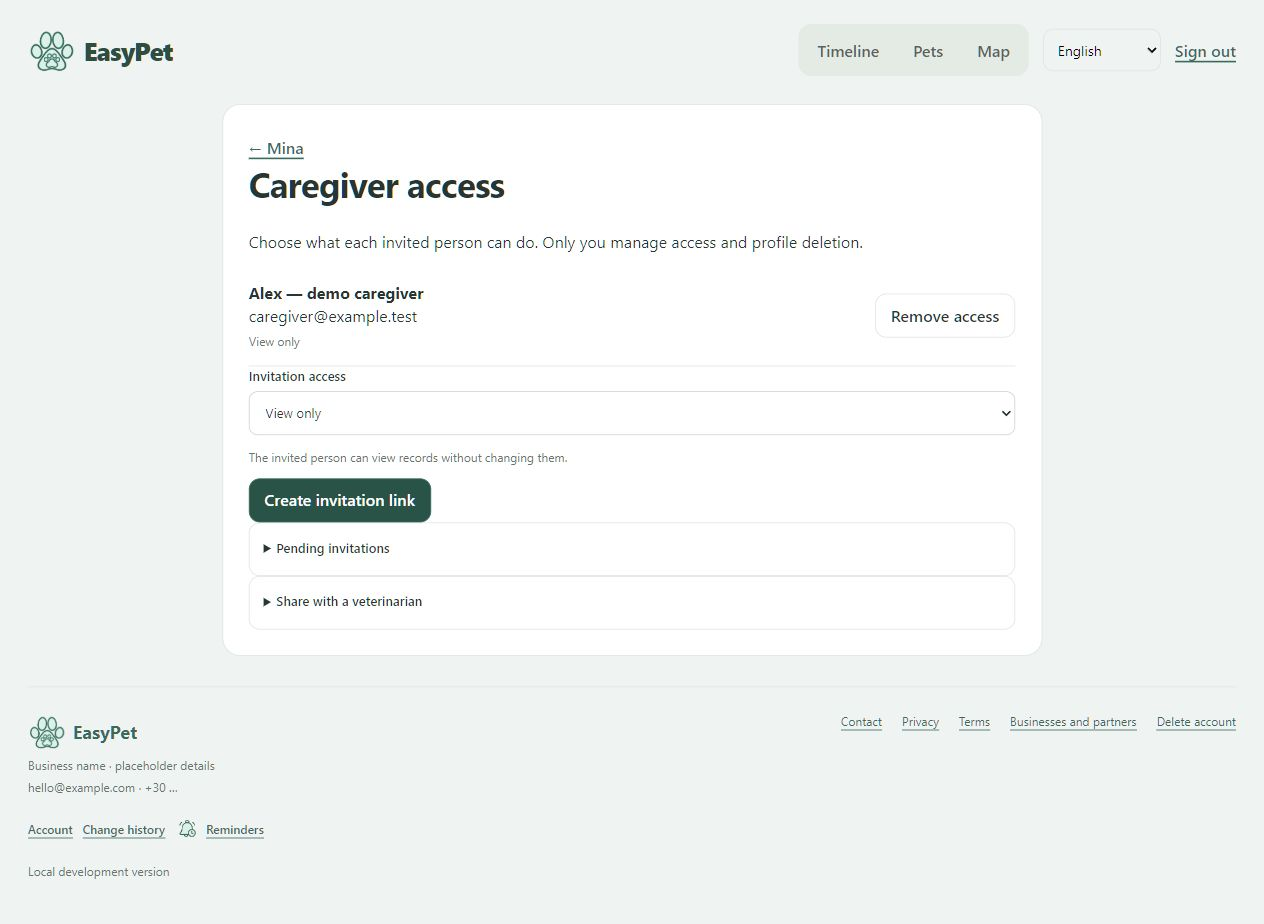
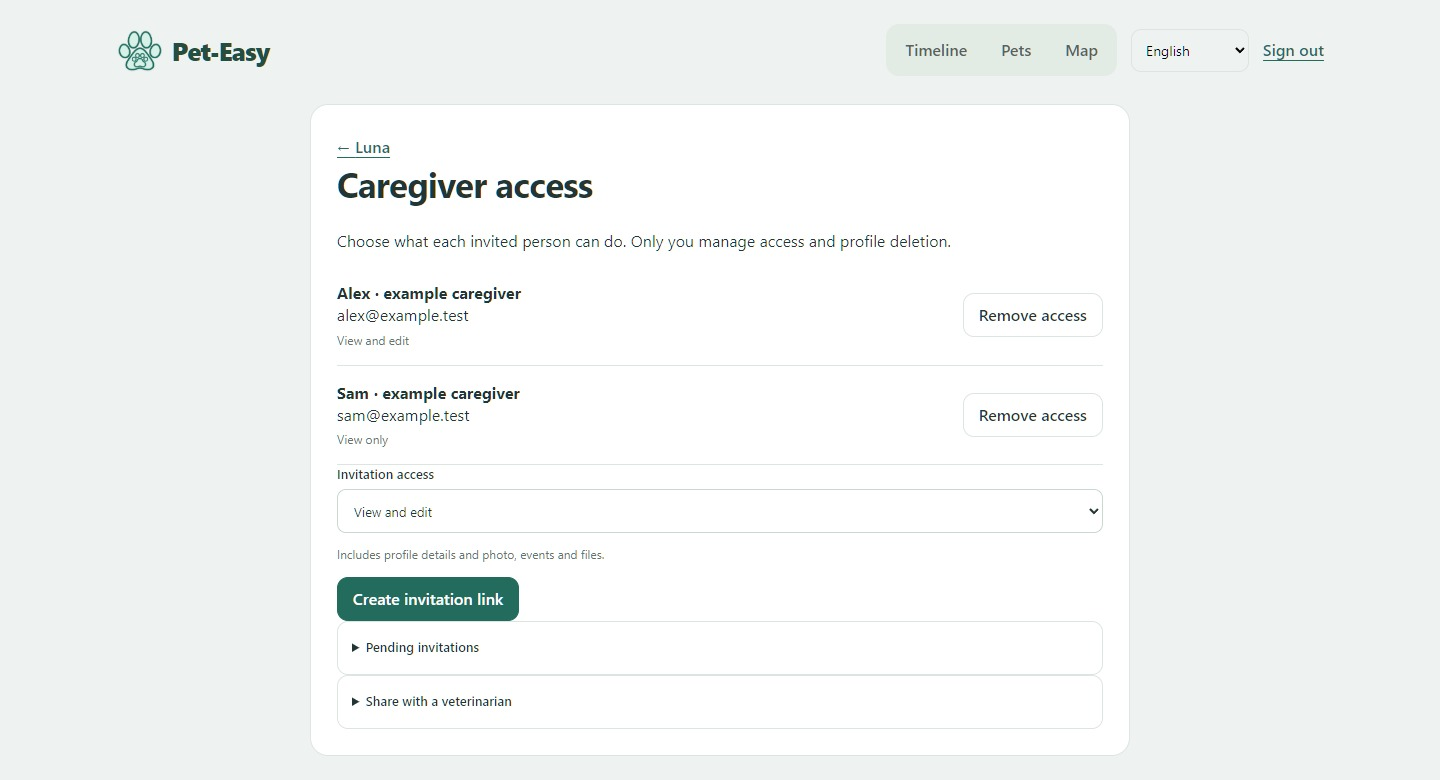
docs: refresh Pet-Easy product previews and agent workflow

diff --git a/README.md b/README.md
@@ -1,65 +1,59 @@
 # Pet-Easy
 
-**Shared pet care, with a clear record of what happened and what comes next.**
+**One timeline. Every pet. Shared care that stays in sync.**
 
-A Greek-first web and Android application for pet profiles, care events, reminders and optional caregiver collaboration. Built by Tilemachos Tragakis with Codex assistance.
+Pet-Easy brings pet profiles, care events, reminders and caregiver collaboration into a connected web and native Android experience. Greek by default, with an English switch.
 
-**Status:** working local development application; preparing a small invited owner/shared-care trial. Not publicly launched or claimed production-ready. This repository is a curated portfolio case study. The application source remains private.
+A product and engineering case study by **Tilemachos Tragakis**, developed with Codex and scoped AI-agent workflows.
 
-![Pet-Easy timeline with fictional demonstration records](assets/timeline.jpg)
+**React · TypeScript · Django REST Framework · PostgreSQL · Kotlin · Jetpack Compose · Docker**
 
-[One-minute walkthrough](WALKTHROUGH.md) · [Architecture and decisions](ARCHITECTURE.md) · [Verification boundaries](VERIFICATION.md) · [Public Python sample](https://github.com/RagDel/completion-recurrence)
+![Pet-Easy shared timeline with fictional pets and care events](assets/timeline.jpg)
 
-## The problem
+[Visual walkthrough](WALKTHROUGH.md) · [Architecture](ARCHITECTURE.md) · [Agents and skills](AGENT_WORKFLOW.md) · [Verification](VERIFICATION.md) · [Runnable Python sample](https://github.com/RagDel/completion-recurrence)
 
-When several people care for a pet, remembering a date is only part of the problem. They also need to know whether something was completed, who changed it, which record is current and what another caregiver is allowed to do.
+**October 2026:** web and Android features are implemented and undergoing iterative verification. Managed cloud deployment and public release are upcoming milestones. This public repository presents the product and engineering; application source remains private.
 
-Pet-Easy organizes that work around pet profiles and a shared timeline. The core can be used by one owner; invitations are optional.
+## The product
 
-## Implemented in the local application
+Sharing pet care means coordinating more than dates. An owner needs to know what happened, what comes next, who changed a record and what each caregiver can do. Pet-Easy connects these decisions in one place, while remaining useful for someone caring for a pet alone.
 
-- A pan/zoom timeline with pet colours, species-aware event categories and filters.
-- Pet profiles, private event documents and provider contact reuse.
-- View-only or editing access, owner-managed invitations and attributed changes.
-- Repeats anchored to actual completion, configurable reminders and Android snooze/retry behaviour.
-- Shared Django API for a React website and native Kotlin Android app.
-- Account export, session revocation and a cancellable account-deletion process.
-
-## Engineering focus
-
-| Problem | Design choice |
+| Capability | What the experience offers |
 |---|---|
-| Two caregivers edit the same record | Server authorization and version checks; preserve edits when resolving conflicts |
-| A completion request is retried | Idempotent handling so one completion does not create duplicate successors |
-| A task is completed later than planned | Calculate its next occurrence from actual completion |
-| Access changes while a screen is open | Revalidate and clear stale views; enforce access in the API |
-| A phone or PC restarts | Persist encrypted device sessions and validate them with the server |
-| A backup predates an account deletion | Reapply independent deletion receipts during restoration |
+| **A shared timeline** | One horizontal date axis for every selected pet, circular photo/category markers, pan and zoom, a Today shortcut, and pet/type filters. Crowded events group by overlap and expand in place. |
+| **Profiles with personality** | Cropped photos, optional birthdays, age and kg/lb weight, plus 24 actual gradient presets and custom colors shared across clients. |
+| **Flexible care records** | Vaccines, antiparasitic care, treatment, grooming, food and species-aware supplies. Optional product details, reusable choices, documents and provider contacts stay with the event. |
+| **Caregiver collaboration** | Owner-managed invitations, View only or View & edit access, attributed changes and the ability to leave a shared pet. |
+| **Completion-based planning** | Repeat intervals count from actual completion. Reminder preferences, adjustable times and native Android snooze/dismissal behavior support follow-up. |
+| **Nearby services** | Nearest-first provider results, grouped map pins, city/area search, relevant business categories and external Google Maps links. Initial coverage uses source-attributed open data for Greece. |
+| **Control over records** | Private attachments, data export, session management and distinct pet-profile/account deletion flows with recovery or cancellation periods. |
 
-## Stack
+A separate **professional workspace is in development**, covering clients and pets, practice details and reminder planning. Partner bookings, payments and external professional messaging remain future work.
 
-**Backend:** Python, Django, Django REST Framework, PostgreSQL.
+## Engineering behind the interface
 
-**Website:** React, TypeScript, Vite.
+| Challenge | Implemented approach |
+|---|---|
+| Many pets and overlapping dates on one screen | Zoom-aware collision groups preserve full event counts and open a bounded detail grid. |
+| The same data on web and Android | A shared API and behavior contracts, with native interfaces and shared visual presets. |
+| Two caregivers change one event | Version-aware updates expose conflicts instead of silently overwriting changes. |
+| A completion request is retried | Retry-safe completion avoids generating duplicate successor events. |
+| A task is completed late | Calendar recurrence starts from completion, with explicit month-end and leap-year behavior. |
+| Access changes while details are open | Clients clear stale views and actions as access changes. |
+| A familiar visual feature evolves | Existing solid pet colors remain valid alongside the new two-stop gradients. |
 
-**Android:** Kotlin, Jetpack Compose.
+The [architecture case study](ARCHITECTURE.md) explains these decisions. The [standalone recurrence sample](https://github.com/RagDel/completion-recurrence) provides inspectable Python code, a CLI and tests for one scheduling problem from the project.
 
-**Local operations:** Docker Compose; separate production configuration, not yet deployed.
+## How I build with agents
 
-## Ownership and development
+I own product direction, choose the stack and user-facing behavior, and review the experience. I use Codex agents for focused research, implementation, debugging, verification and documentation, with explicit scope and acceptance criteria.
 
-I define the product requirements and scope, choose the user-facing behaviour and review/test the experience. Codex assists with implementation, debugging, tests, research and documentation. This is an AI-assisted project; the case study does not imply that every line was written manually.
+Ten project-specific skills separate product, UX, UI, architecture, backend, browser, Android, database, containers and integration verification. Shared contracts and recorded decisions connect their work; independent reviews check results before integration. [See the workflow and a concrete feature example.](AGENT_WORKFLOW.md)
 
-## About the screenshots
+## Evidence and next steps
 
-The public product name is **Pet-Easy**. These captures retain the earlier **EasyPet** label from the existing local build; the application branding update is pending. Repository/package names remain unchanged.
+Recorded checks include PostgreSQL integration tests, responsive Greek/English browser journeys, Android JVM tests and lint, and selected browser-to-Android persistence checks. The visual walkthrough uses the current web interface and fictional demonstration data. Narrow-screen web captures are labelled as web, and are separate from native Android evidence.
 
-The images show the actual web build connected to an isolated, read-only fixture server. All account, pet, event and caregiver records in these captures are fictional. They illustrate the interface; they are not evidence of live notifications, production availability or an Android runtime. No private database records are used.
+Next milestones are **managed cloud deployment**, release distribution, monitoring, broader physical-device and accessibility testing, and expanded professional workflows. Notification integration and development delivery checks do not establish production delivery reliability. [Verification scope and remaining work](VERIFICATION.md).
 
-The walkthrough is available directly in this repository without creating an account or running the private app. For runnable public code, see [completion-recurrence](https://github.com/RagDel/completion-recurrence).
-
-## Scope boundaries
-
-iOS is deferred. Professional booking/payment services, billing, public hosting and diagnostic AI are not part of the released offering. Account deletion and pet-profile deletion have different retention semantics; see [architecture](ARCHITECTURE.md). The product name is a working brand, not a claim of trademark registration.
-
-Published for portfolio review. This repository does not grant a license to the private application or its branding. No open-source reuse license has been selected for these case-study materials.
+Published for portfolio review. No open-source reuse license has been selected for the case-study materials, branding or private application.

diff --git a/ARCHITECTURE.md b/ARCHITECTURE.md
@@ -1,40 +1,68 @@
-# Architecture and tradeoffs
+# Architecture and engineering decisions
+
+Pet-Easy combines a React website and a native Kotlin Android app around shared pet-care records. The engineering challenge is keeping dates, permissions, edits and reminders consistent while each client offers an experience suited to its platform.
+
+This diagram shows logical responsibilities in the implementation. Managed cloud deployment is an upcoming milestone; the diagram does not describe a live hosted service.
 
 ```mermaid
 flowchart TB
     W[React / TypeScript website] --> A[Django REST API]
-    K[Kotlin / Compose Android] --> A
+    K[Kotlin / Jetpack Compose Android] --> A
+    G[Shared gradient palette] --> W
+    G --> K
     A --> P[(PostgreSQL)]
-    A --> F[Private document storage]
-    P --> R[Reminder worker]
-    R --> M[SMTP email]
-    R --> N[Firebase Cloud Messaging]
-    O[OSM / Overture source data] --> I[Provider import and attribution]
+    A --> F[Profile images and event documents]
+    P --> R[Reminder scheduling and interactions]
+    R --> E[Email integration]
+    R --> N[Android push integration]
+    O[OSM / Overture records] --> I[Import and source attribution]
     I --> P
+    Z[GeoNames place index] --> A
 ```
 
-## One authority for shared records
+## A timeline built around actual dates
 
-Both clients use the same API. Permission checks belong on the server, not just in disabled buttons. Owners manage sharing and deletion; invited caregivers may view or edit according to the access granted. Version checks make concurrent edits explicit rather than silently overwriting them.
+All selected pets share one horizontal axis. Events keep their actual date anchors as users pan, zoom and filter. At each scale, the clients identify connected groups of overlapping markers: a single marker sits above the axis, two alternate above and below, and three or more become a counted group. A group can contain several pets and nearby dates.
 
-## Calendar meaning before scheduling machinery
+Expanding a group reveals a bounded grid with each pet, category and date, followed by details on the same page. Long collision chains keep a reachable group control even when their centre moves outside the visible window. Birthdays participate in grouping without becoming editable care events.
 
-Repeat intervals count from actual completion. Medical repeats start disabled; the owner supplies an interval from veterinary instructions. The public [date-only sample](https://github.com/RagDel/completion-recurrence) demonstrates calendar arithmetic independently. The application also needs transactional completion, retry protection and eligibility checks.
+This behavior makes dense histories useful on small screens while preserving individual records. Saving an event focuses it in the timeline; Today recentres the date without changing the user's scale or filters.
 
-Reminder data persists on the server. Android push and email are independent channels. Snooze and dismissal retries are additional Android notification behaviour, not a promise that an operating system will always deliver at an exact instant.
+## One visual contract, two client implementations
 
-## Explicit privacy boundaries
+Both clients consume the same 24-gradient preset collection. Pet records store the chosen color values, allowing custom adjustments without depending on a particular preset version. A second color extends the existing solid-color model; older records keep their appearance and older clients can use the first color.
 
-Documents require authorized access. Account export and session revocation provide user control. Whole-account deletion has a seven-day cancellation window followed by erasure, with pseudonymous attribution where another owner's history must remain. Restoring an older backup must reapply independent deletion receipts before access reopens.
+The shared contract defines behavior and data. React and Compose implement their own layouts, navigation and platform interactions. Greek/English presentation, permission states, date semantics and the saved palette are checked across both clients.
 
-Pet-profile deletion is different: it is recoverable for seven days and subsequently hidden while retained as deleted. That distinction must remain visible in product language and retention decisions.
+## Shared care under concurrent changes
 
-## Practical deployment choices
+Owners control invitations and choose viewing or editing access. Caregivers can leave a shared pet without removing the owner's records. The API applies the same rights to profile changes, events and attached documents, and clients clear stale views after access changes.
 
-Docker Compose makes local services repeatable and keeps the application portable. A separately prepared production configuration is not evidence of a live deployment. The current application depends on its server; full offline editing is not implemented.
+Writes carry a record version so conflicting changes are surfaced instead of silently overwriting newer work. Retry identities allow an interrupted create or attachment upload to be repeated without creating another copy. Completing an event creates its successor once, including when requests arrive concurrently. Attributed history connects changes to the care record.
 
-Provider discovery uses source-labelled open data and external map links. Imported records are not proof that a business is currently open, and external ratings/booking are not implied by a map pin.
+## Calendar rules that match the product
 
-## What I would revisit with evidence
+Repeats count from actual completion. A monthly interval follows calendar months, including month-end clamping, rather than assuming every month has the same number of days. Calendar reminders retain their local clock through daylight-saving changes; hourly offsets represent elapsed time. Medical repeats start unselected and use the interval chosen by the owner.
 
-Hosted operational readiness, physical-device accessibility, realistic load, backup recovery in the chosen hosting environment and actual provider delivery need their own acceptance checks. A small pilot is intended to inform later scaling and product scope.
+Android snoozes and dismissal follow-ups form a separate reminder interaction flow. The implementation preserves accepted snoozes when callbacks arrive late, handles repeated requests, and stops queued follow-ups when a record is completed or becomes ineligible. Email and Android preferences remain independent.
+
+The public [completion-recurrence Python sample](https://github.com/RagDel/completion-recurrence) makes a focused date-only part of this work runnable. It does not reproduce the complete application's scheduling or notification system.
+
+## Geospatial discovery with traceable sources
+
+Provider search sorts the matching records by distance before pagination. Map movement and selected place results refresh the search; event forms narrow results to relevant services and can reuse the last saved provider for that pet and service.
+
+The Greece directory contains 3,124 source-attributed OpenStreetMap/Overture records. A separate GeoNames index supports Greek/Latin city and area names. Source records retain their identity: nearby entries are not silently treated as one verified business. Map clusters count the results on the current page, and reviews open through external Google Maps links.
+
+## User-facing data controls
+
+Profiles and care events support permission-aware documents and attributed history. Account controls include ZIP export, session management and account deletion with a seven-day cancellation window. Pet-profile deletion has its own recovery flow and is distinguished from account erasure in the product.
+
+## Next engineering milestones
+
+- Managed cloud deployment, production monitoring and hosted acceptance across web and Android.
+- Broader physical-device, accessibility, interrupted-journey and notification power-management testing.
+- Release distribution and performance evaluation against realistic usage.
+- Further professional-care workflows; partner booking, commercial billing and iOS remain future scope.
+
+The [verification summary](VERIFICATION.md) separates implemented behavior, recorded checks and remaining acceptance work. The [agent workflow](AGENT_WORKFLOW.md) explains how scoped skills and review support the development process.

diff --git a/VERIFICATION.md b/VERIFICATION.md
@@ -1,15 +1,54 @@
-# What has and has not been verified
+# Verification and evidence
 
-Snapshot: 1 October 2026. This is a public summary of project evidence, not a certification or a live service-level claim.
+**Evidence snapshot: 1 October 2026.** This page summarizes recorded application checks. The portfolio refresh did not rerun the full private application suite, and the counts below are separate checkpoints rather than one combined release result.
 
-| Area | Evidence available | Boundary |
+## Recorded checkpoints
+
+| Area | Evidence recorded | What it establishes |
 |---|---|---|
-| Backend and persistence | Local API/database tests, authorization and retry/conflict scenarios | No public hosted-environment acceptance |
-| Browser | Local journeys and responsive/layout checks | Not a complete accessibility audit |
-| Android | Builds, JVM/lint checks and selected Pixel 10 emulator/S24 journeys | Remaining physical gestures, accessibility and power-saving cases |
-| Reminders | Development FCM receipt and user-confirmed email/device delivery | Not a production delivery guarantee |
-| Recovery | Local backup/restore and deletion-receipt rehearsal | Must be repeated for the actual hosting/storage setup |
-| Portfolio screenshots | Actual web build with fictional read-only API fixtures | Visual demonstration only; not end-to-end backend execution |
-| Public code sample | Independently runnable calendar-boundary and invariant tests | Date-only sample, not the full reminder engine |
+| Backend and persistence | 233 PostgreSQL-backed application tests passed in the latest recorded backend checkpoint | Tested application behavior, including permissions, records, account controls and existing concurrency regressions |
+| Native Android | 89 JVM tests passed; build and lint completed with zero errors and 28 existing warnings | Tested Kotlin behavior and a buildable app; selected emulator and physical-device journeys provide separate runtime evidence |
+| Web application | TypeScript/Vite builds and focused browser interaction suites passed | Tested browser behavior and responsive Greek/English layouts, including 320, 390 and 1,360 px viewports for the shared timeline |
+| Cross-client journeys | Synthetic-record browser/API and Android checks covered selected shared-care, account and timeline flows | Evidence for the particular journeys exercised, with broader acceptance still to complete |
+| Reminder interactions | Scheduling tests and selected device receipt, tap, snooze and dismissal checks were recorded | Evidence for tested integration paths and interactions; no hosted availability or universal delivery claim |
+| Portfolio previews | Current web-interface captures use fictional demonstration records | A visual walkthrough of the interface, separate from end-to-end application acceptance |
 
-Production hosting, commercial billing, real partner bookings and iOS delivery remain outside the demonstrated scope. This repository intentionally avoids publishing private test logs, account data, credentials and operational configuration.
+These checks are complementary. A layout fixture can reveal clipped controls but cannot establish database persistence; a unit test cannot establish how a physical gesture feels.
+
+For this portfolio refresh, six current web captures were visually reviewed across desktop English and phone-width Greek layouts. Capture checks recorded no page errors, unexpected requests, data writes or horizontal page overflow. All demonstration accounts, pets, events and attachments are fictional; the illustrated pet avatars are part of that dataset.
+
+## Behaviors exercised
+
+### Timeline and client parity
+
+Shared-axis checks cover isolated events, two-event overlaps, groups of three or more, mixed pets and dates, long collision chains, birthdays and filtered selections. Browser and Kotlin checks exercise grouping, access changes and reachable group counts while panning.
+
+Recorded browser/API journeys include saved custom gradients and cropped photos, completion persistence, inline group expansion and returning to the saved event. Android checks include shared-palette compatibility and selected native timeline interactions. The Today shortcut was checked after repeated panning while preserving scale and pet filters.
+
+### Shared care and consistency
+
+Recorded journeys cover viewer/editor differences, profile and event changes, leaving a shared pet and preserving the owner's records. Backend checks cover version conflicts, repeated submissions, concurrent operations and migration compatibility. Document checks include uploads, downloads, failed-upload retries and shared storage accounting.
+
+Account journeys include export, session controls, the pending-deletion experience and cancellation. These are functional checks of the user controls; they do not represent a compliance assessment.
+
+### Calendars and reminders
+
+Tests exercise completion-based recurrence, month ends, daylight-saving transitions, preserved existing rules and adjustable calendar clocks. Reminder interaction checks include repeated or reordered actions and cancellation after completion or changed eligibility.
+
+Selected scheduled email and Android notification receipt was confirmed during development. Native checks also exercised notification opening and a short snooze returning as a fresh alert. Longer dismissal intervals were checked through saved scheduling state and controlled time advancement, rather than waiting through every full interval. These results do not imply an active hosted notification service or punctual delivery in every device state.
+
+### Provider discovery
+
+Recorded checks cover distance ordering, pagination, Greek/Latin place lookup, category-specific searches and map-result refresh. Selected Android checks observed changed results after choosing a place, page navigation and grouped pins. Some browser map checks substitute external responses, so those passes establish interface behavior rather than external map-service availability.
+
+The dataset count describes source records, not independently verified businesses or complete geographic coverage.
+
+## Upcoming acceptance
+
+Managed cloud deployment and acceptance in the selected hosting environment are upcoming. Further work includes broader accessibility and native large-text coverage, physical multitouch, interrupted forms, returning sign-in journeys, release installation/update checks and notification behavior under restrictive device power settings.
+
+Professional external messaging, partner booking, commercial billing and iOS are outside the demonstrated delivery scope. No production service-level or comprehensive security claim is made by the test counts.
+
+For a runnable public example, the [completion-recurrence repository](https://github.com/RagDel/completion-recurrence) provides a focused date-only implementation and tests. Its results apply to that sample; the private application's broader behavior is summarized here.
+
+[Product walkthrough](WALKTHROUGH.md) · [Architecture and decisions](ARCHITECTURE.md) · [Agent-assisted development](AGENT_WORKFLOW.md)

diff --git a/WALKTHROUGH.md b/WALKTHROUGH.md
@@ -1,27 +1,47 @@
-# A one-minute walkthrough
+# Pet-Easy: a visual walkthrough
 
-**Pet-Easy** is the current product name. The captured local build still displays its previous name, **EasyPet**.
+Current interface preview · **1 October 2026**
 
-These are screenshots of the actual web interface with an isolated fictional dataset. They are not a live public account. No medical interval in the demonstration should be interpreted as care advice.
+These captures show the actual React web interface with fictional pets, events and caregiver accounts. They demonstrate the UI; recorded API and native Android checks are described separately in [Verification](VERIFICATION.md).
 
-## 1. See shared care in context
+## 1. See every pet on one timeline
 
-![Timeline showing fictional pets and events](assets/timeline.jpg)
+![Shared timeline with pet gradients, date markers and grouped events](assets/timeline.jpg)
 
-The owner can pan through time, change scale and filter by pet or event type. Pet colours maintain context when records for more than one animal are visible.
+Photo and category bubbles share one date axis. Pan through past and upcoming care, change scale, filter pets or event types, and use Today to return to the current date. Overlapping events group at the selected zoom.
 
-## 2. Open a pet
+## 2. Expand busy dates without leaving the page
 
-![Fictional pet profile](assets/pet-profile.jpg)
+![An expanded event group with individual pet and event details](assets/timeline-details.jpg)
 
-A profile gathers the pet's details and records. Event documents and saved provider contact details build on the same shared API rather than separate client databases.
+A group's count includes every event. Opening it reveals a bounded grid; selecting an item shows its details and permitted actions on the same page. This keeps a multi-pet household's history readable as the schedule becomes denser.
 
-## 3. Make access deliberate
+## 3. Give each pet a recognizable identity
 
-![Caregiver access with fictional example addresses](assets/sharing.jpg)
+![Fictional pet profile with photo, personal details and gradient controls](assets/pet-profile.jpg)
 
-Invitations distinguish viewing from editing. The owner manages access, while attributed history helps caregivers understand changes. The screenshot contains only example.test addresses.
+Profiles combine a cropped photo, age or birthday, weight and a personal color. Twenty-four gradient presets and custom endpoints carry that identity through the timeline. Existing solid colors remain supported.
 
-## Inspect something runnable
+## 4. Plan care around completion
 
-The [completion-recurrence sample](https://github.com/RagDel/completion-recurrence) has a CLI and standard-library tests. It isolates one scheduling contract from the larger private project so the implementation can be reviewed and run independently.
+![Event editor with care details, repeat choices and reminder options](assets/event-planning.jpg)
+
+Record care details, select a provider, choose an optional repeat and set reminder lead times. Repeats count from actual completion. Medical repeats begin unset; owners follow their veterinarian's instructions. Demonstration dates and intervals are fictional.
+
+## 5. Make shared care deliberate
+
+![Caregiver sharing screen using fictional example addresses](assets/sharing.jpg)
+
+Invite someone with View only or View & edit access. Owners manage sharing; caregivers can leave a shared pet. Attributed change history helps everyone follow updates without losing ownership boundaries.
+
+## 6. Keep the timeline usable on a smaller screen
+
+<img src="assets/timeline-mobile.jpg" alt="Pet-Easy responsive web timeline at phone width" width="390">
+
+This is the **responsive website at phone width**. The native Android application uses Kotlin and Jetpack Compose; its verification is recorded separately. Both clients follow the same product behavior contracts.
+
+## Beyond these screens
+
+Provider discovery adds nearest-first results, grouped map pins, Greek/Latin city search and external Google Maps links. Private event documents, data export, reminder snoozes and account controls extend the core journey.
+
+Explore the [architecture](ARCHITECTURE.md), [agent-and-skill workflow](AGENT_WORKFLOW.md), or [runnable Python recurrence sample](https://github.com/RagDel/completion-recurrence). Managed cloud deployment and public release are upcoming milestones.

diff --git a/AGENT_WORKFLOW.md b/AGENT_WORKFLOW.md
@@ -1,0 +1,57 @@
+# Building Pet-Easy with agents and skills
+
+Pet-Easy is an AI-assisted development project directed by **Tilemachos Tragakis**. My work includes defining the product, choosing its technology direction, reviewing the interface and using agents to carry requirements through implementation and verification.
+
+The useful part of working with agents is giving each task a clear purpose, relevant context and an observable result. The project uses written decisions, shared behavior contracts and ten reusable skills to support that process.
+
+## Ten skills with distinct responsibilities
+
+| Skill | Responsibility |
+|---|---|
+| Product | User outcomes, scope, priorities and acceptance proposals |
+| UX | Journeys, navigation and interaction states |
+| UI | Visual direction, component presentation and consistency |
+| Architecture | Technical tradeoffs and shared behavior contracts |
+| Django | Backend behavior, services and application permissions |
+| React | Browser components, state and API integration |
+| Kotlin | Native Android behavior, lifecycle and API integration |
+| PostgreSQL | Schema, migrations, constraints and query behavior |
+| Docker | Reproducible builds and container configuration |
+| Verification | Cross-client journeys and integration regressions |
+
+These are scoped workflows selected for a task. The skill library combines project-specific guidance with reviewed, attributed adaptations of upstream material. Responsibilities are deliberately narrow: a visual task cannot silently redefine product behavior, and a passing client build cannot establish database correctness.
+
+## From a product decision to evidence
+
+```mermaid
+flowchart LR
+    A[Product decision] --> B[Behavior contract]
+    B --> C[Scoped agent tasks]
+    C --> D[Implementation and focused checks]
+    D --> E[Independent review]
+    E --> F[Cross-client verification]
+    F --> G[Integration and updated context]
+    E --> D
+```
+
+Independent work can run in parallel with clear file ownership. Shared changes are reconciled against the agreed contract. Reviews look for observable failures, compatibility issues and missing evidence; findings become focused follow-up work.
+
+Durable project notes preserve decisions between sessions. They distinguish user choices, engineering selections and proposals, so an agent resuming work does not treat an old suggestion as an approved requirement.
+
+## Example: the shared timeline redesign
+
+The product direction changed from separate pet lanes to **one shared date axis**, with actual gradients for pet accents. That visual decision affected several parts of the application:
+
+1. **Define the interaction.** An isolated event sits above the axis. Two overlapping events alternate above and below. Larger groups show their complete count and expand into an inline grid. Grouping follows the current zoom.
+2. **Keep clients aligned.** React and native Compose implement the same behavior, using a shared set of 24 gradient presets.
+3. **Preserve existing data.** Adding a gradient endpoint keeps older solid colors and older-client updates valid.
+4. **Exercise difficult states.** Check mixed pets and dates, long overlap chains, birthdays, filtering, access changes, small screens and keyboard focus.
+5. **Check the complete journey.** A synthetic profile and event created in the browser were inspected on Android; a gradient saved on Android was then verified in a fresh browser view.
+
+This connects a visible product improvement to layout algorithms, API compatibility, persistence and cross-client acceptance. The [verification summary](VERIFICATION.md) records the boundaries of that evidence.
+
+## What the portfolio demonstrates
+
+The project shows how I turn product requirements into scoped technical work, coordinate specialized agent workflows, review results and maintain continuity across a growing application. Codex contributes implementation, tests, research and documentation; the portfolio does not imply that every line was written manually.
+
+Public materials include the interface, engineering explanations and a [runnable recurrence example](https://github.com/RagDel/completion-recurrence). Private source, project instructions, user records and operational configuration are outside this showcase.
